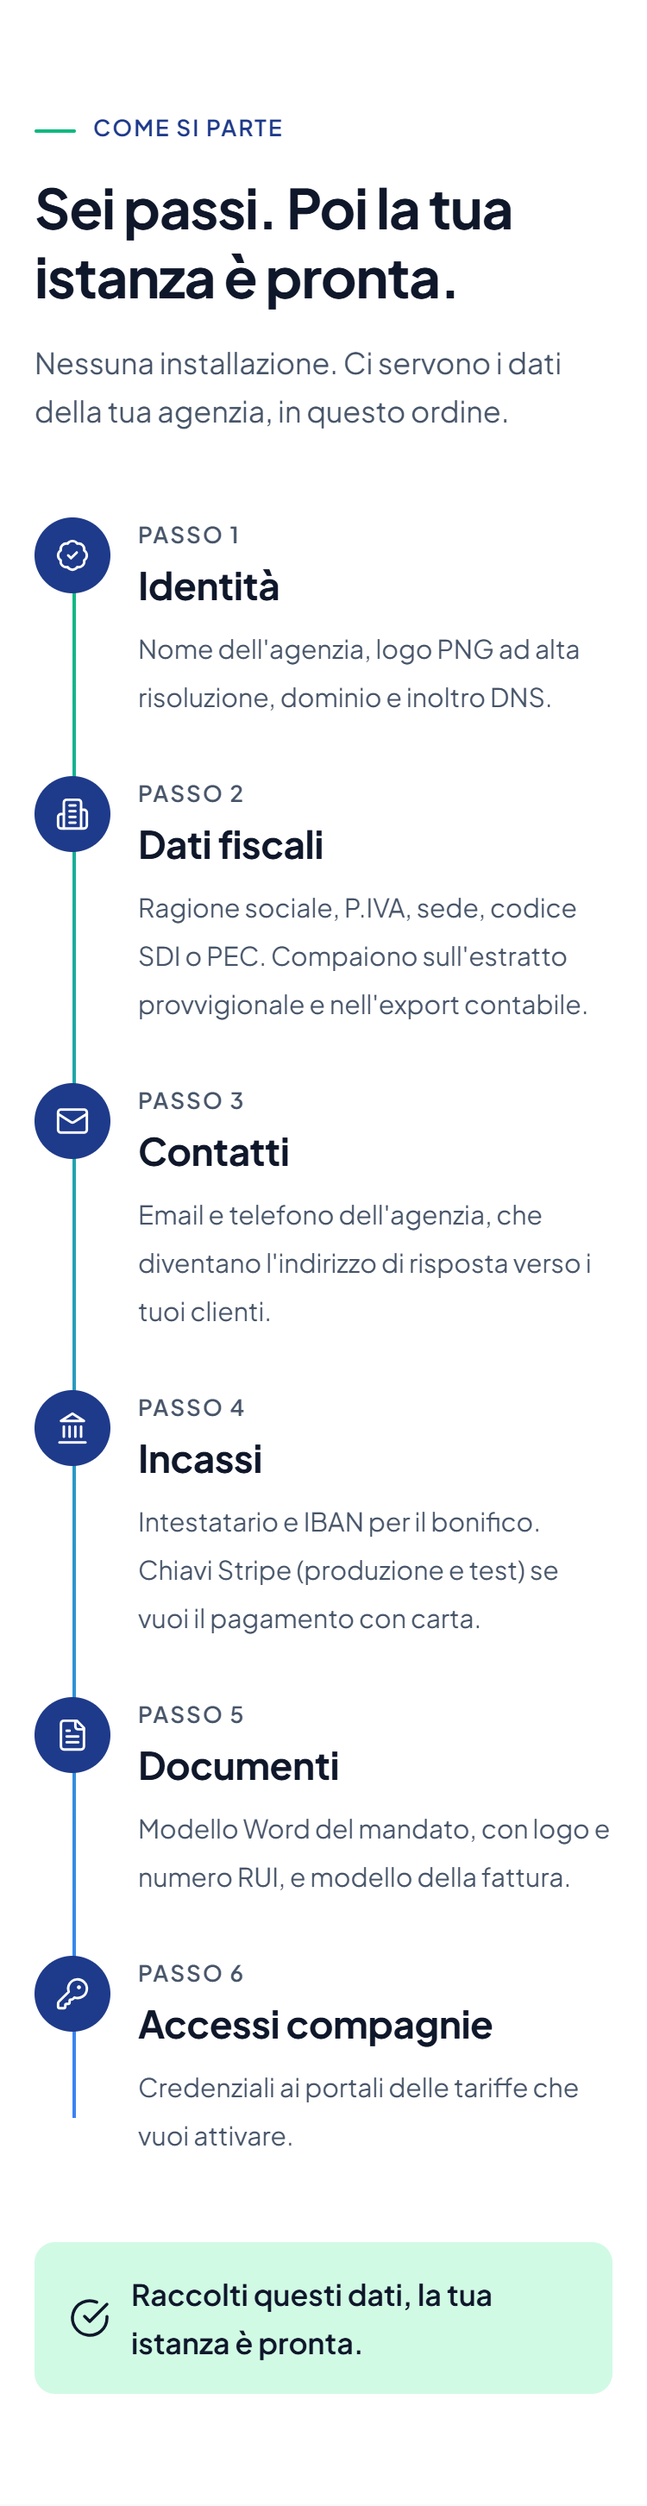
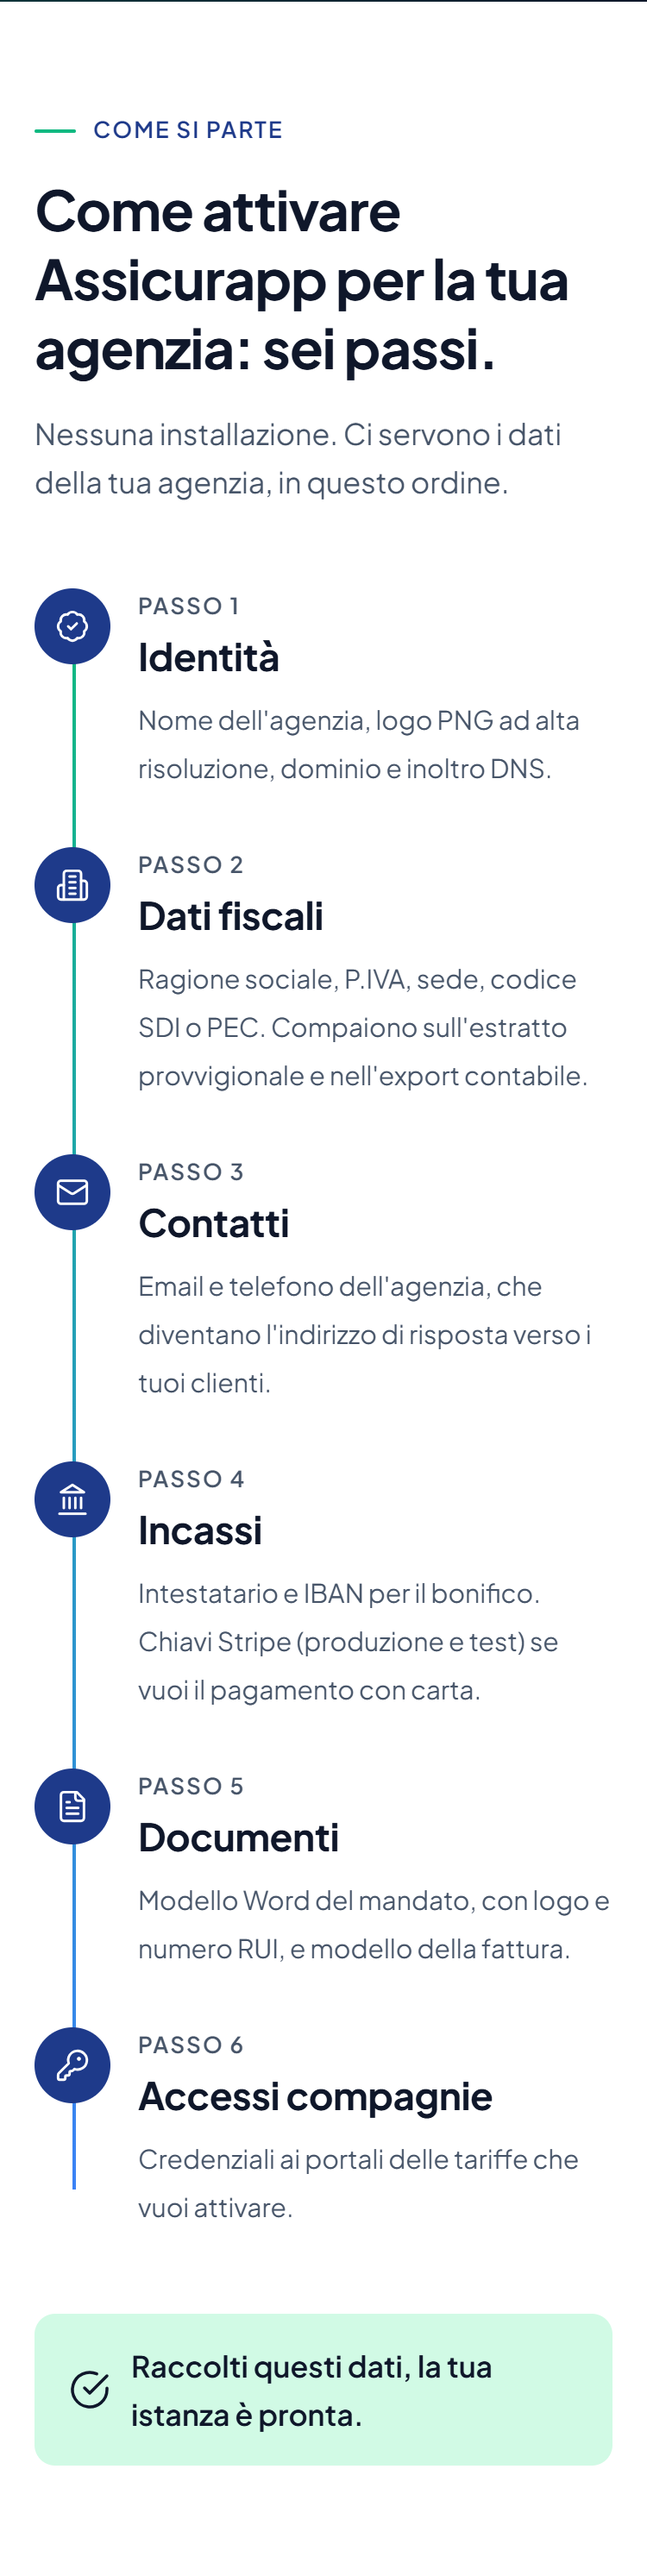
Ottimizza i contenuti per SEO, AEO e GEO
- Title e description con le parole chiave (preventivi RC Auto multicompagnia,
  agenzie e broker) e il numero reale di compagnie; H1 e H2 descrittivi.
- Nuovo blocco "Cos'è Assicurapp" (#cos-e): definizione in un paragrafo e sei
  fatti chiave, testo autosufficiente e citabile dai motori di risposta.
- FAQ da 8 a 15 domande, risposta nella prima frase; aggiunte le domande
  definitorie (cos'è, per chi, quali compagnie, targa/ANIA, tre livelli, dominio).
- JSON-LD collegato con @id: Organization, WebSite, SoftwareApplication
  (abstract, keywords), HowTo per i sei passi, FAQPage.
- /llms.txt generato a build dai contenuti; robots.txt con consenso esplicito
  ai crawler dei modelli generativi; sitemap con lastmod.
- README: sezione SEO/AEO/GEO. Screenshot rigenerati.

diff --git a/src/pages/llms.txt.ts b/src/pages/llms.txt.ts
@@ -1,0 +1,47 @@
+/**
+ * /llms.txt — riassunto del sito in testo semplice per i crawler dei modelli generativi
+ * (convenzione llmstxt.org). Generato dagli stessi contenuti della pagina, così resta allineato.
+ */
+import type { APIRoute } from 'astro';
+import site from '@/content/site.it.json';
+
+export const GET: APIRoute = ({ site: base }) => {
+  const url = (base ?? new URL('https://assicurapp.it')).toString().replace(/\/$/, '');
+  const a = site.about;
+  const lines = [
+    `# ${site.meta.siteName}`,
+    '',
+    `> ${a.definition}`,
+    '',
+    `Sito: ${url}`,
+    `Lingua: italiano. Pubblico: agenzie e broker assicurativi in Italia.`,
+    '',
+    '## Fatti chiave',
+    ...a.facts.map((f) => `- ${f.term}: ${f.detail}`),
+    '',
+    '## Funzionalità',
+    ...site.features.blocks.flatMap((b) => [`### ${b.title}`, ...b.items.map((i) => `- ${i}`), '']),
+    '## Compagnie interrogabili',
+    `- Tariffe base (${site.rates.base.length}): ${site.rates.base.join(', ')}`,
+    `- Tariffe in convenzione (${site.rates.convention.length}): ${site.rates.convention.join(', ')}`,
+    `- Nota: ${site.rates.note}`,
+    '',
+    '## Collaborazioni (tre livelli)',
+    ...site.collab.levels.map((l) => `${l.n}. ${l.name}: ${l.text}`),
+    '',
+    '## Come si parte',
+    ...site.onboarding.steps.map((s, i) => `${i + 1}. ${s.title}: ${s.text}`),
+    site.onboarding.closing,
+    '',
+    '## Domande frequenti',
+    ...site.faq.items.flatMap((f) => [`### ${f.q}`, f.a, '']),
+    '## Pagine',
+    `- [Home](${url}/): sezioni #cos-e, #funzionalita, #tariffe, #collaborazioni, #come-si-parte, #faq, #contatti`,
+    `- [Privacy](${url}/privacy)`,
+    '',
+    `## Contatti`,
+    `Richiesta demo o proposta di collaborazione dal modulo in ${url}/#contatti.`,
+    '',
+  ];
+  return new Response(lines.join('\n'), { headers: { 'Content-Type': 'text/plain; charset=utf-8' } });
+};

diff --git a/README.md b/README.md
@@ -110,6 +110,21 @@ Il font (Plus Jakarta Sans 400–700, solo latin) è servito dal sito tramite `@
 connessioni a Google Fonts. Il brief indicava Google Fonts, ma il suo CSS bloccava il rendering e teneva Lighthouse
 mobile a 83.
 
+## SEO, AEO e GEO
+
+Il sito è scritto per essere trovato dai motori di ricerca, citato dai motori di risposta e letto dai modelli generativi.
+
+- **Title e description** con le parole chiave di ricerca (preventivi RC Auto multicompagnia, agenzie e broker) e numeri reali (20 compagnie).
+- **H1 e H2 descrittivi**: ogni titolo di sezione dice di cosa parla e nomina Assicurapp o il prodotto.
+- **Blocco "Cos'è Assicurapp"** (`#cos-e`): una definizione in un paragrafo, autosufficiente e citabile, più sei fatti chiave in un `<dl>`.
+  È il testo che un motore di risposta può riprendere così com'è.
+- **FAQ** con 15 domande: la risposta sta nella prima frase. Include le domande definitorie (cos'è, per chi, quali compagnie, come funziona la targa, cosa sono tariffa/convenzione/istanza).
+- **Dati strutturati** collegati tra loro con `@id`: `Organization`, `WebSite`, `SoftwareApplication` (con `abstract` e `keywords`), `FAQPage`, `HowTo` per i sei passi di attivazione.
+- **`/llms.txt`**: riassunto in testo semplice per i crawler dei modelli generativi, generato a build dagli stessi contenuti di `site.it.json` (`src/pages/llms.txt.ts`).
+- **`robots.txt`**: consenso esplicito ai crawler di OpenAI, Anthropic, Perplexity, Google e Apple; `/grazie` e `/api/` esclusi. Sitemap con `lastmod`.
+
+Tutti i testi restano in `src/content/site.it.json` (chiavi `meta`, `about`, `faq`). Nessun numero o cliente inventato: solo i fatti del brief.
+
 ## Prestazioni e sicurezza
 
 - Lighthouse mobile (build locale): Performance 99, Accessibilità 100, Best practices 100, SEO 100. LCP 1,6 s, CLS 0.
